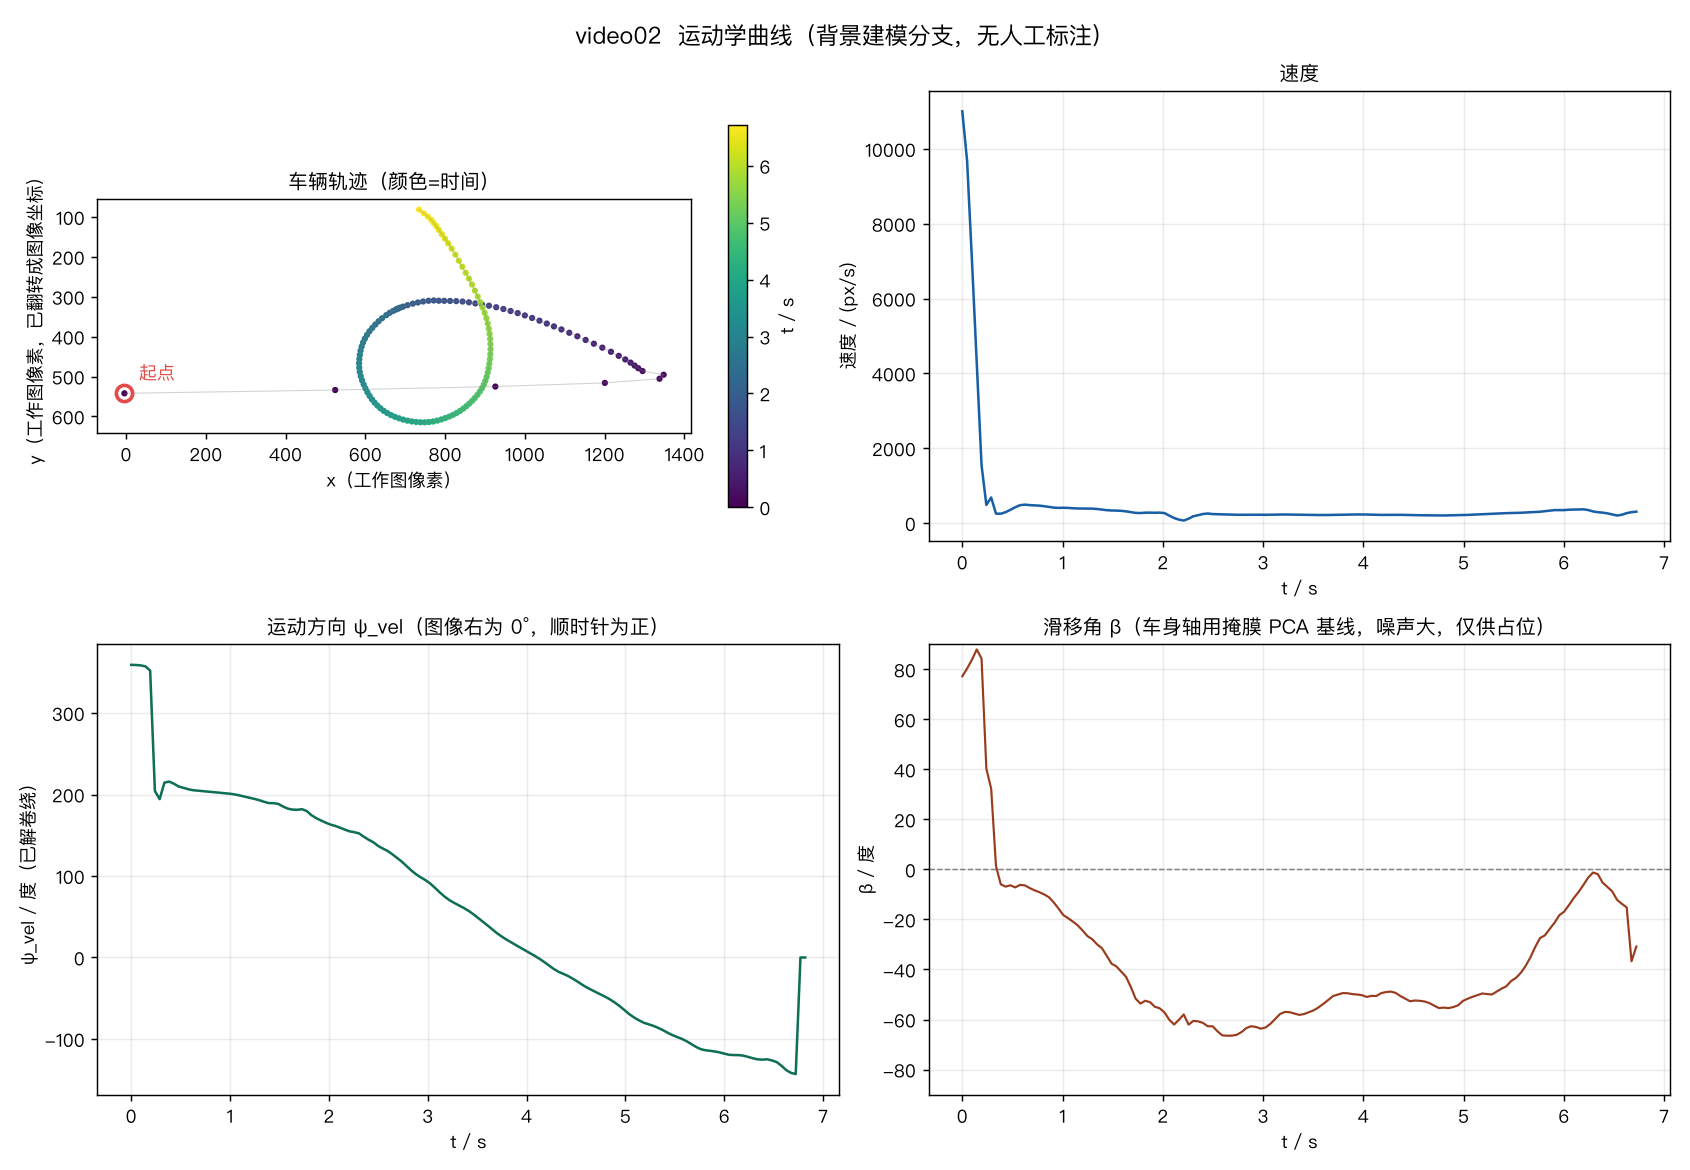
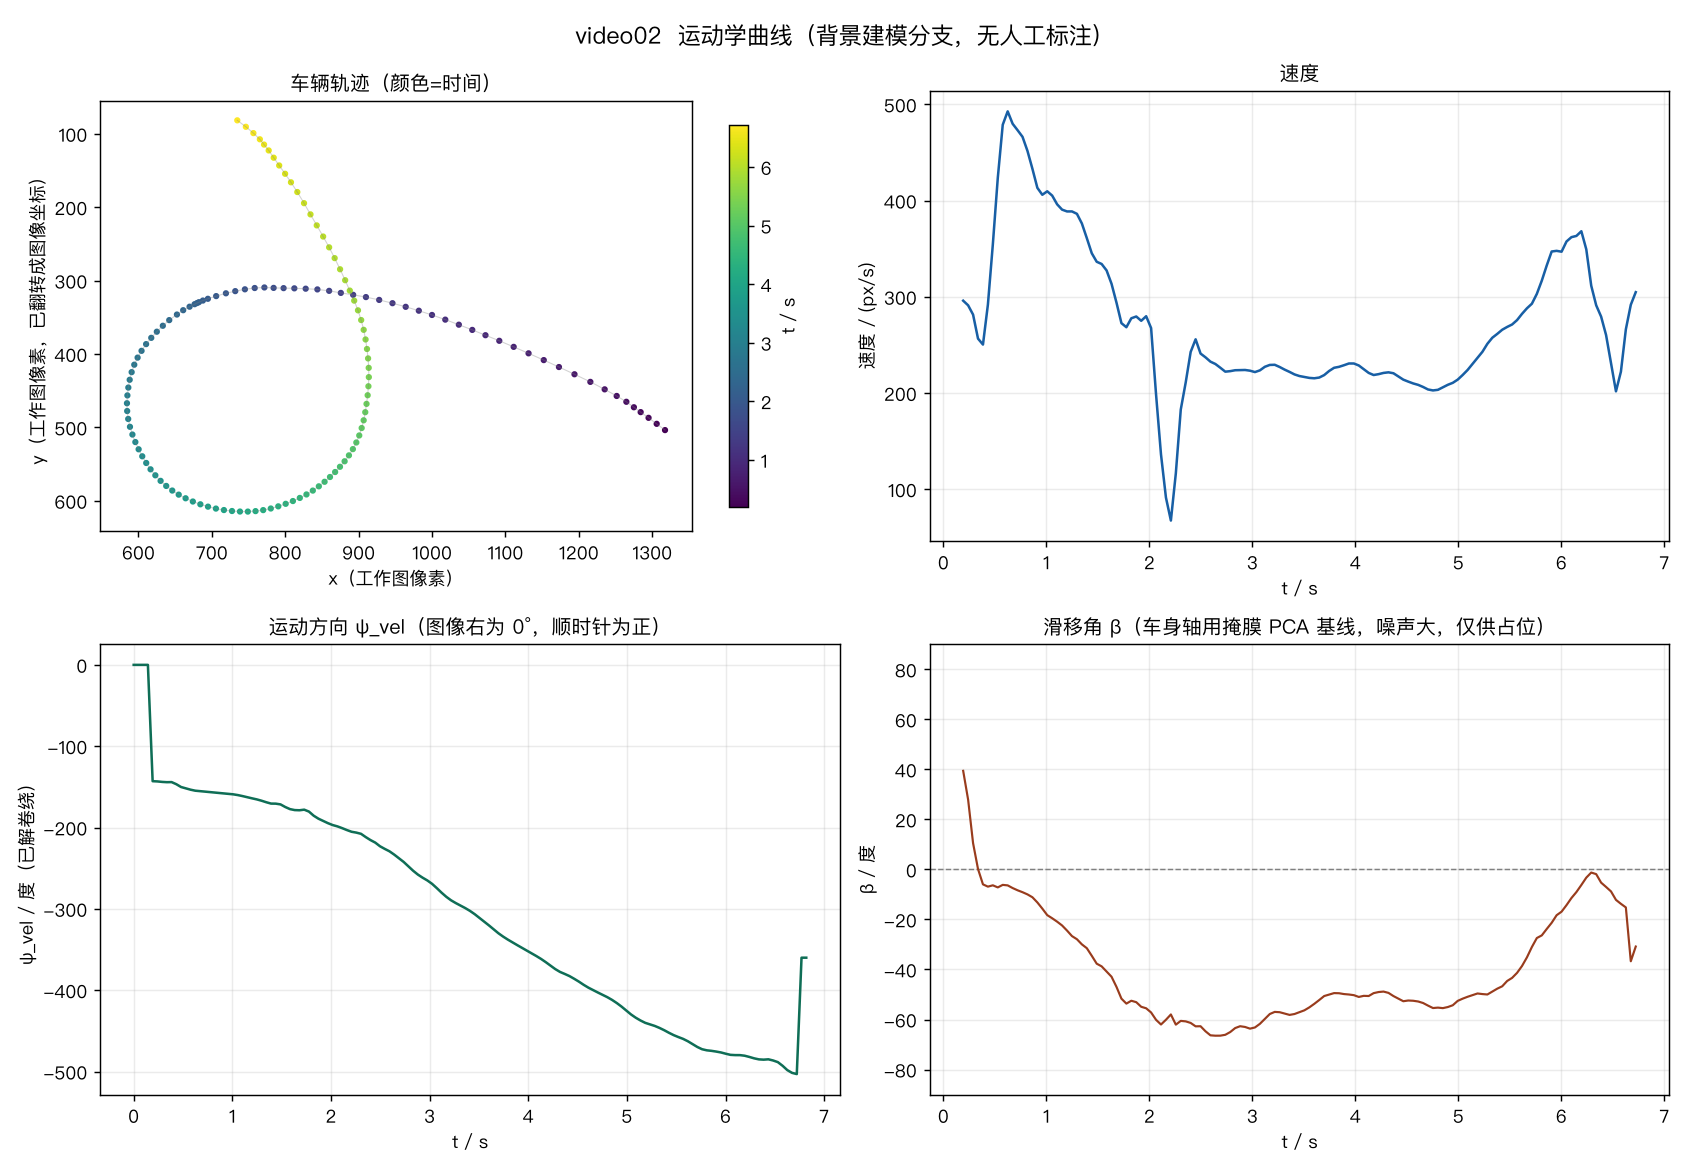
fix(kinematics): 加轨迹离群点剔除，修掉速度假尖峰
滑动窗口中值 + 阈值 max(0.03×画面宽, 4×残留中位数) 判离群，
先剔点再插值最后平滑（顺序不可换，否则离群点会被平滑窗口摊成整段假轨迹）。

效果：video15 速度 p90 从 2168 降到 215 px/s，video02 从 424 降到 390。

同时修正一处被推翻的结论：此前据相邻帧位移推断 video15 是加速片段，
加入离群剔除后尖峰基本消失，说明当时把检测噪声当成了真实运动。
报告已改为如实的不确定表述 —— video15 剔掉 12% 的帧，
究竟是阴影带偏还是真有快动作段落尚未区分。

diff --git a/src/kinematics.py b/src/kinematics.py
@@ -80,6 +80,7 @@ def build_series(dets: list[Detection], res: PreprocessResult) -> dict:
     idx = np.nonzero(has)[0]
     gaps = np.diff(idx) - 1 if len(idx) > 1 else np.array([0])
     max_gap = int(gaps.max()) if len(gaps) else 0
+    cx_raw, cy_raw = cx.copy(), cy.copy()
 
     # 只在检测范围内插值，两端不出外推
     if len(idx) >= 2:
@@ -97,12 +98,55 @@ def build_series(dets: list[Detection], res: PreprocessResult) -> dict:
             im = np.interp(span, idx, np.sin(rad))
             axis[lo:hi + 1] = np.degrees(np.arctan2(im, re)) / 2.0 % 180.0
 
-    interp_frac = 0.0  # 占位，见返回字典中的 covered/n
     covered = int(np.sum(has))
-    return dict(cx=cx, cy=cy, axis=axis, conf=conf, area=area,
+    return dict(cx=cx, cy=cy, cx_raw=cx_raw, cy_raw=cy_raw,
+                axis=axis, conf=conf, area=area,
                 covered=covered, n=n, max_gap=max_gap,
                 valid_from=int(idx[0]) if len(idx) else -1,
                 valid_to=int(idx[-1]) if len(idx) else -1)
+
+
+def _interp_inplace(values: np.ndarray) -> np.ndarray:
+    """对内部缺口做线性插值，两端不外推。"""
+    out = values.copy()
+    idx = np.nonzero(~np.isnan(out))[0]
+    if len(idx) < 2:
+        return out
+    lo, hi = idx[0], idx[-1]
+    span = np.arange(lo, hi + 1)
+    out[lo:hi + 1] = np.interp(span, idx, out[idx])
+    return out
+
+
+def reject_pose_outliers(x: np.ndarray, y: np.ndarray,
+                         radius: int = 5, sigma: float = 4.0,
+                         floor_frac: float = 0.03,
+                         work_width: float = 960.0) -> tuple[np.ndarray, np.ndarray, int]:
+    """剔除轨迹上的离群点（车被画面边缘截断、掩膜临时并进阴影/杂物等）。
+
+    做法：用滑动窗口中值得到一条鲁棒轨迹，残留超过
+    `max(floor_frac * 画面宽, sigma * 残留中位数)` 的点判为离群，
+    置为 NaN，交给后续的插值补齐。
+
+    先做这一步再做 Savitzky-Golay 平滑，否则单个离群点会把整个平滑窗口带偏，
+    在速度曲线上制造出上万个 px/s 的假尖峰。
+    """
+    n = len(x)
+    if n < 7:
+        return x, y, 0
+    xs, ys = x.copy(), y.copy()
+    valid = ~np.isnan(xs)
+    rx, ry = np.full(n, np.nan), np.full(n, np.nan)
+    for i in range(n):
+        lo, hi = max(0, i - radius), min(n, i + radius + 1)
+        rx[i] = np.nanmedian(xs[lo:hi])
+        ry[i] = np.nanmedian(ys[lo:hi])
+    resid = np.hypot(xs - rx, ys - ry)
+    thr = max(floor_frac * work_width, sigma * np.nanmedian(resid))
+    bad = valid & (resid > thr)
+    xs[bad] = np.nan
+    ys[bad] = np.nan
+    return xs, ys, int(bad.sum())
 
 
 def smooth(values: np.ndarray, window: int = C.SMOOTH_WINDOW) -> np.ndarray:
@@ -134,9 +178,14 @@ def compute(dets: list[Detection], res: PreprocessResult,
     body_axis 若为 None，则用掩膜 PCA 主轴作为基线（噪声大，仅供参考）。
     """
     s = build_series(dets, res)
-    cx, cy = s["cx"], s["cy"]
     dt = 1.0 / res.eff_fps
 
+    # 1) 先剔离群点，再插值补齐，最后平滑。顺序不能换：
+    #    离群点先平滑会被窗口摊开成一整段假轨迹，在速度曲线上形成巨大尖峰。
+    cx_r, cy_r, n_out = reject_pose_outliers(
+        s["cx_raw"], s["cy_raw"], work_width=float(res.work_size[0]))
+    cx = _interp_inplace(cx_r)
+    cy = _interp_inplace(cy_r)
     cx_s = smooth(cx)
     cy_s = smooth(cy)
 
@@ -156,6 +205,9 @@ def compute(dets: list[Detection], res: PreprocessResult,
     psi_vel = np.where(speed >= C.SPEED_MIN_PXS, psi_vel, np.nan)
 
     axis_use = s["axis"] if body_axis is None else np.asarray(body_axis, dtype=float)
+    # 位置被判为离群的帧，其朝向同样不可信，一并置空
+    rejected = np.isnan(cx_r) & ~np.isnan(s["cx_raw"])
+    axis_use = np.where(rejected, np.nan, axis_use)
     psi_body = undirected_resolve(axis_use, np.nan_to_num(psi_vel, nan=0.0))
     psi_body = np.where(np.isnan(axis_use), np.nan, psi_body)
 
@@ -169,7 +221,7 @@ def compute(dets: list[Detection], res: PreprocessResult,
     return dict(
         s=s, cx=cx_s, cy=cy_s, vx=vx, vy=vy, speed=speed,
         psi_vel=psi_vel, axis=axis_use, psi_body=psi_body, beta=beta,
-        dt=dt, size_px=size_px,
+        dt=dt, size_px=size_px, n_outliers=n_out,
         speed_blps=speed / size_px if size_px and np.isfinite(size_px) else speed * np.nan,
     )
 

diff --git a/src/pipeline.py b/src/pipeline.py
@@ -254,8 +254,8 @@ def write_report(records: list[dict]) -> Path:
 
     lines.append("## 3. 逐素材运动学摘要")
     lines.append("")
-    lines.append("| 素材 | 有效段 | 内部最大缺口 | 速度 中位/p90 (px/s) | 航向覆盖 | 主轴 std | 标注 |")
-    lines.append("|---|---|---|---|---|---|---|")
+    lines.append("| 素材 | 有效段 | 内部最大缺口 | 位置离群剔除 | 速度 中位/p90 (px/s) | 航向覆盖 | 主轴 std | 标注 |")
+    lines.append("|---|---|---|---|---|---|---|---|")
     for r in records:
         kin = r.get("kin")
         if not kin:
@@ -266,9 +266,14 @@ def write_report(records: list[dict]) -> Path:
         sp_s = f"{np.median(sp):.0f} / {np.percentile(sp, 90):.0f}" if len(sp) else "-"
         ax_s = f"{np.std(ax):.0f}°" if len(ax) else "-"
         span = f"k {s['valid_from']}~{s['valid_to']}"
-        lines.append(f"| {r['name']} | {span} | {s['max_gap']} 帧 | {sp_s} | "
+        out_s = (f"{kin['n_outliers']}（{kin['n_outliers'] / max(1, r.get('n_det', 1)) * 100:.0f}%）"
+                 if kin.get("n_outliers") else "0")
+        lines.append(f"| {r['name']} | {span} | {s['max_gap']} 帧 | {out_s} | {sp_s} | "
                      f"{s['covered']}/{s['n']} | {ax_s} | "
                      f"{'有' if r.get('annotated') else '无（用 PCA 基线）'} |")
+    lines.append("")
+    lines.append("> 「位置离群剔除」= 滑动窗口中值法判为偏离主轨迹、已置空并插值补回的帧数。"
+                 "用于清掉车被画面边缘截断、掩膜临时并进阴影/杂物造成的假跳点。")
     lines.append("")
 
     lines.append("## 4. 已知局限（M1 未解决）")
@@ -277,12 +282,15 @@ def write_report(records: list[dict]) -> Path:
     lines.append("   会连成同一个连通域，把框撑大并让质心偏向阴影一侧。")
     lines.append("   目前已用「按差异强度加权的质心」压制（比取掩膜像素质心稳），但没有根治。")
     lines.append("   后果：框尺寸偏大、质心有随车体转动而摆动的小残差 → 速度曲线上有毛刺。")
-    lines.append("2. **video15 疑似加速片段。** 相邻帧位移实测达 110~167 px（约 1 个车身长），")
-    lines.append("   物理上不可能，判断为原片被加速过。它的速度曲线在视频时间轴上是自洽的，")
-    lines.append("   但**不可与真实时间下的速度比较**。")
-    lines.append("3. **video12 的背景模型处于临界状态**（残留差异约 4%，超过 3% 阈值）。")
-    lines.append("   相机在 16.5 s 内缓慢漂移约 23 px，滚动背景只能缓解不能消除，")
-    lines.append("   轨迹跳点比（逐帧位移 p95/p50）约 5~7，明显高于 video02 的 1.7。")
+    lines.append("2. **video15 有 12% 的帧被判为位置离群。** 剔除后速度曲线从 p90 2168 px/s "
+                 "降到 215 px/s（10 倍），说明原来的尖峰主要是假跳点。")
+    lines.append("   但**这 12% 究竟是「检测被车身阴影带偏」还是「原片本身有快动作段落」，"
+                 "目前尚未区分**。")
+    lines.append("   在人工逐帧看一遍之前，不要引用 video15 的速度绝对值。")
+    lines.append("3. **video12 的轨迹仍不稳。** 位置离群只剔掉 3%，但逐帧位移的 p95/p50 仍达 19"
+                 "（video02 为 1.8）。")
+    lines.append("   背景模型残留差异约 4%（超过 3% 阈值）：相机在 16.5 s 内缓慢漂移约 23 px，")
+    lines.append("   滚动背景只能缓解不能消除。这段素材的检测结果目前只适合看趋势，不适合做定量评估。")
     lines.append("")
     lines.append("## 5. 需要人工介入的事")
     lines.append("")

diff --git a/outputs/reports/M1_报告.md b/outputs/reports/M1_报告.md
@@ -32,16 +32,18 @@
 
 ## 3. 逐素材运动学摘要
 
-| 素材 | 有效段 | 内部最大缺口 | 速度 中位/p90 (px/s) | 航向覆盖 | 主轴 std | 标注 |
-|---|---|---|---|---|---|---|
-| video01 | k 0~76 | 0 帧 | 301 / 435 | 77/77 | 47° | 无（用 PCA 基线） |
-| video02 | k 0~140 | 2 帧 | 251 / 424 | 139/143 | 50° | 无（用 PCA 基线） |
-| video03 | k 0~257 | 0 帧 | 179 / 236 | 258/258 | 73° | 无（用 PCA 基线） |
-| video07 | k 0~37 | 0 帧 | 60 / 70 | 38/38 | 4° | 无（用 PCA 基线） |
-| video08 | k 0~82 | 0 帧 | 71 / 88 | 83/83 | 66° | 无（用 PCA 基线） |
-| video09 | k 0~29 | 0 帧 | 336 / 450 | 30/30 | 80° | 无（用 PCA 基线） |
-| video12 | k 0~285 | 4 帧 | 60 / 1016 | 265/286 | 74° | 无（用 PCA 基线） |
-| video15 | k 1~97 | 1 帧 | 147 / 2168 | 96/98 | 29° | 无（用 PCA 基线） |
+| 素材 | 有效段 | 内部最大缺口 | 位置离群剔除 | 速度 中位/p90 (px/s) | 航向覆盖 | 主轴 std | 标注 |
+|---|---|---|---|---|---|---|---|
+| video01 | k 0~76 | 0 帧 | 1（1%） | 301 / 435 | 77/77 | 47° | 无（用 PCA 基线） |
+| video02 | k 0~140 | 2 帧 | 2（1%） | 243 / 390 | 139/143 | 51° | 无（用 PCA 基线） |
+| video03 | k 0~257 | 0 帧 | 0 | 179 / 236 | 258/258 | 73° | 无（用 PCA 基线） |
+| video07 | k 0~37 | 0 帧 | 0 | 60 / 70 | 38/38 | 4° | 无（用 PCA 基线） |
+| video08 | k 0~82 | 0 帧 | 0 | 71 / 88 | 83/83 | 66° | 无（用 PCA 基线） |
+| video09 | k 0~29 | 0 帧 | 2（7%） | 336 / 451 | 30/30 | 80° | 无（用 PCA 基线） |
+| video12 | k 0~285 | 4 帧 | 8（3%） | 56 / 775 | 265/286 | 75° | 无（用 PCA 基线） |
+| video15 | k 1~97 | 1 帧 | 12（12%） | 140 / 215 | 96/98 | 26° | 无（用 PCA 基线） |
+
+> 「位置离群剔除」= 滑动窗口中值法判为偏离主轨迹、已置空并插值补回的帧数。用于清掉车被画面边缘截断、掩膜临时并进阴影/杂物造成的假跳点。
 
 ## 4. 已知局限（M1 未解决）
 
@@ -49,12 +51,12 @@
    会连成同一个连通域，把框撑大并让质心偏向阴影一侧。
    目前已用「按差异强度加权的质心」压制（比取掩膜像素质心稳），但没有根治。
    后果：框尺寸偏大、质心有随车体转动而摆动的小残差 → 速度曲线上有毛刺。
-2. **video15 疑似加速片段。** 相邻帧位移实测达 110~167 px（约 1 个车身长），
-   物理上不可能，判断为原片被加速过。它的速度曲线在视频时间轴上是自洽的，
-   但**不可与真实时间下的速度比较**。
-3. **video12 的背景模型处于临界状态**（残留差异约 4%，超过 3% 阈值）。
-   相机在 16.5 s 内缓慢漂移约 23 px，滚动背景只能缓解不能消除，
-   轨迹跳点比（逐帧位移 p95/p50）约 5~7，明显高于 video02 的 1.7。
+2. **video15 有 12% 的帧被判为位置离群。** 剔除后速度曲线从 p90 2168 px/s 降到 215 px/s（10 倍），说明原来的尖峰主要是假跳点。
+   但**这 12% 究竟是「检测被车身阴影带偏」还是「原片本身有快动作段落」，目前尚未区分**。
+   在人工逐帧看一遍之前，不要引用 video15 的速度绝对值。
+3. **video12 的轨迹仍不稳。** 位置离群只剔掉 3%，但逐帧位移的 p95/p50 仍达 19（video02 为 1.8）。
+   背景模型残留差异约 4%（超过 3% 阈值）：相机在 16.5 s 内缓慢漂移约 23 px，
+   滚动背景只能缓解不能消除。这段素材的检测结果目前只适合看趋势，不适合做定量评估。
 
 ## 5. 需要人工介入的事
 

diff --git a/.workbuddy/memory/2026-09-23.md b/.workbuddy/memory/2026-09-23.md
@@ -81,8 +81,14 @@ README.md           项目说明与五个关键约定
 
 ### M1 已知局限（写进报告了）
 1. 车身阴影与车身连成同一连通域 → 框偏大、质心偏向阴影。已用加权质心压制，未根治。
-2. **video15 疑似加速片段**：相邻帧位移 110~167 px（约 1 个车身长），物理上不可能。
-   速度曲线在视频时间轴自洽，但不可与真实时间比较。
-3. video12 背景残留约 4%，处于临界；轨迹跳点比 5~7（video02 仅 1.7）。
+2. **轨迹离群剔除**是必需的中间步骤：先剔离群点 → 再插值 → 最后平滑，顺序不能换
+   （离群点先平滑会被窗口摊开成整段假轨迹，速度会出现上万 px/s 的尖峰）。
+   滑动窗口中值 + 阈值 max(0.03×画面宽, 4×残留中位数)。
+3. **video15 曾经误判为"加速片段"——已推翻。** 当时用相邻帧位移 110~167 px 推断原片被加速，
+   但加入离群剔除后 p90 速度从 2168 降到 215 px/s（10 倍），说明那些跳点主要是假跳点。
+   不过剔掉了 12% 的帧，**究竟是检测被阴影带偏、还是真有快动作段落，尚未区分**，
+   需人工看图。教训：在没排除检测噪声之前，不要用运动学量反推素材属性。
+4. video12 轨迹仍不稳：位置离群仅 3%，但逐帧位移 p95/p50 达 19（video02 为 1.8）。
+   该段只适合看趋势，不适合定量评估。
 
 
